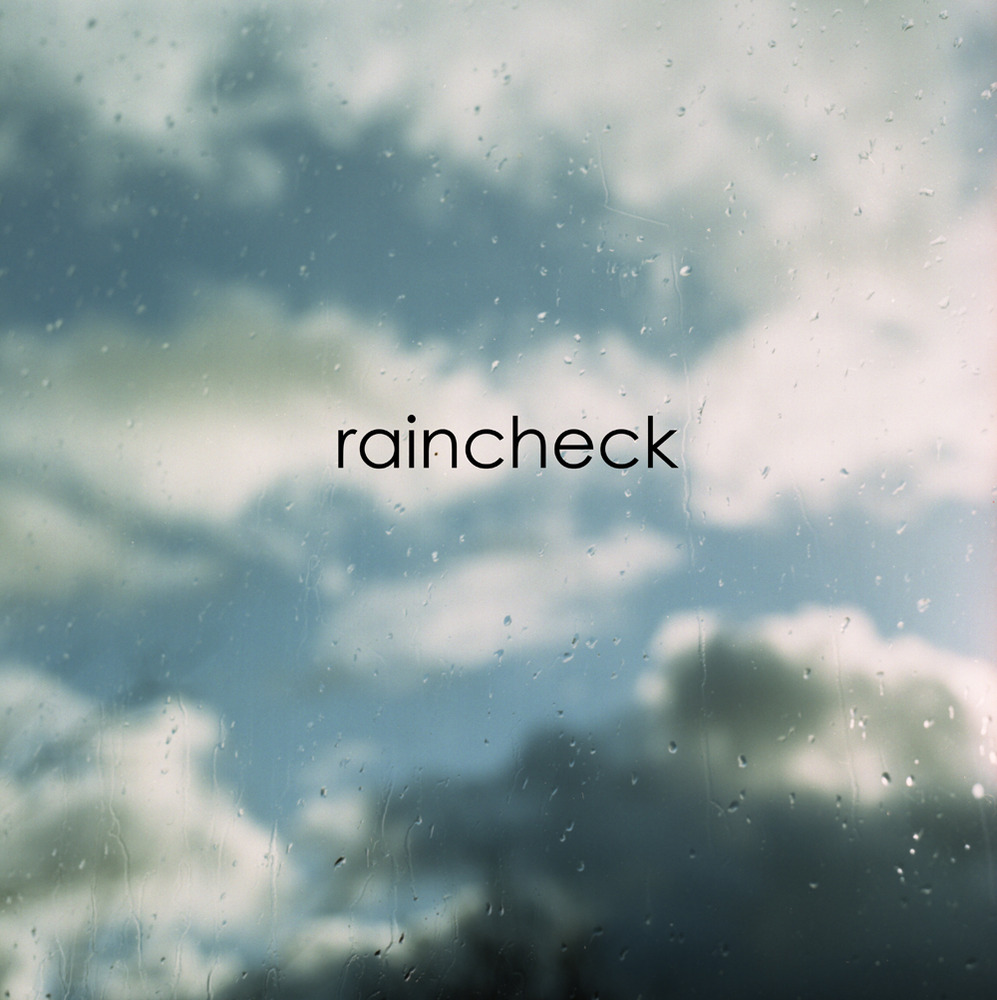
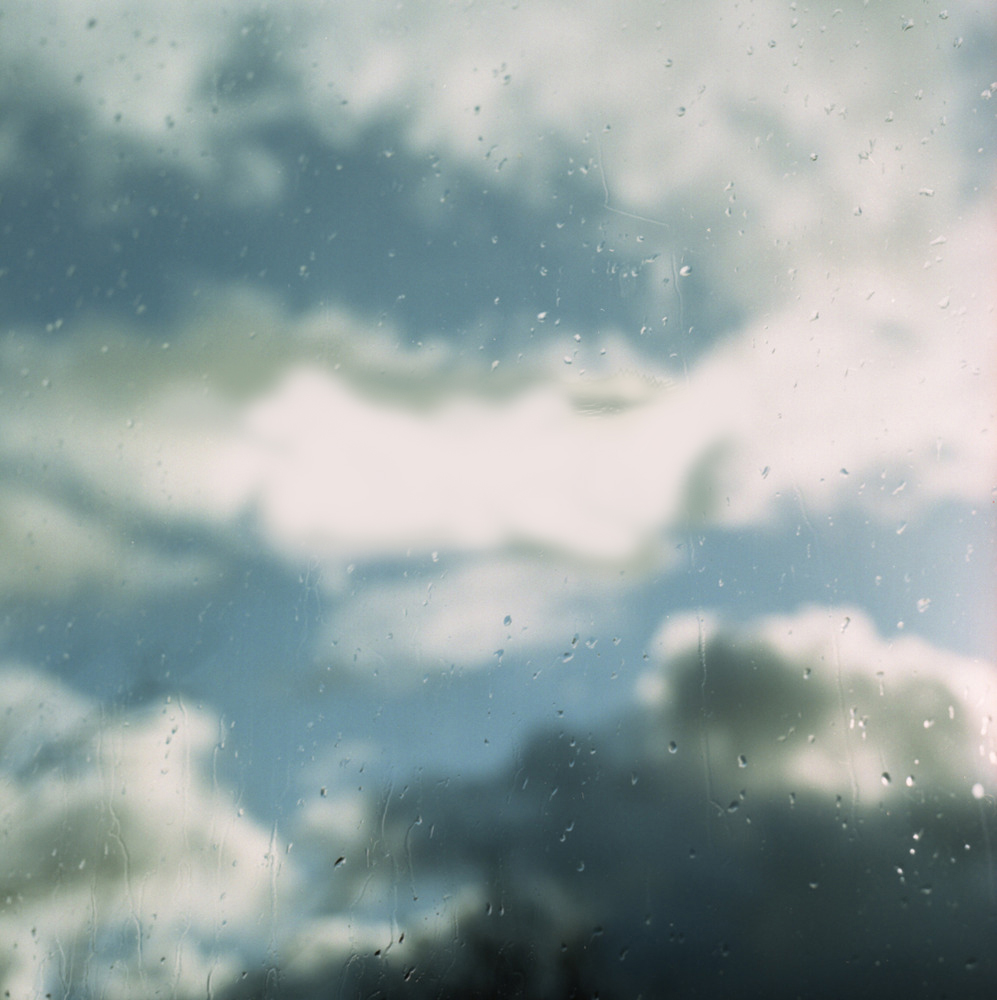
Adding modal to create new raincheck

Changed region(s): [[0.2487, 0.341, 0.7462, 0.589]]

diff --git a/app/assets/stylesheets/home.css.scss b/app/assets/stylesheets/home.css.scss
@@ -2,11 +2,10 @@
 // They will automatically be included in application.css.
 // You can use Sass (SCSS) here: http://sass-lang.com/
 
-.michelle {
+.image {
      float: none;
      margin-left: 45%;
      margin-right: 50%;
-     
      margin-top: 30%;
 }
 
@@ -22,4 +21,10 @@ body {
 	background: transparent;
 }
 
-
+h1 {
+  font-family: 'Special Elite';
+  font-style: normal;
+  font-weight: 400;
+  font-size: 36px;
+  margin-right: 60%;
+}

diff --git a/app/controllers/rainchecks_controller.rb b/app/controllers/rainchecks_controller.rb
@@ -2,16 +2,10 @@ class RainchecksController < ApplicationController
   
   before_filter :authenticate_user!
   before_filter :require_raincheck, except: [:index, :new, :create, :masterlist]
-  
 
 	def index
 		@given = current_user.given_rainchecks.order('rainchecks.created_at DESC').where :completed => false
 		@taken = current_user.taken_rainchecks.order('rainchecks.created_at DESC').where :completed => false
-	end
-
-	def new
-		@raincheck = current_user.given_rainchecks.build
-		@raincheck.takers.build
 	end
 
 	def edit
@@ -69,7 +63,6 @@ class RainchecksController < ApplicationController
 	def nav_state
 		@nav = :rainchecks
 	end
-
   
 end
 

diff --git a/app/controllers/application_controller.rb b/app/controllers/application_controller.rb
@@ -1,3 +1,13 @@
 class ApplicationController < ActionController::Base
   protect_from_forgery
+  before_filter :new_raincheck
+
+  def new_raincheck
+  	if current_user
+			@new_raincheck = current_user.given_rainchecks.build
+			@new_raincheck.takers.build
+		else
+			@new_raincheck = Raincheck.new
+		end
+	end
 end

diff --git a/app/controllers/home_controller.rb b/app/controllers/home_controller.rb
@@ -7,6 +7,8 @@ class HomeController < ApplicationController
 		 	render :index
 			end
 	end
+
+	
 end
 
 
